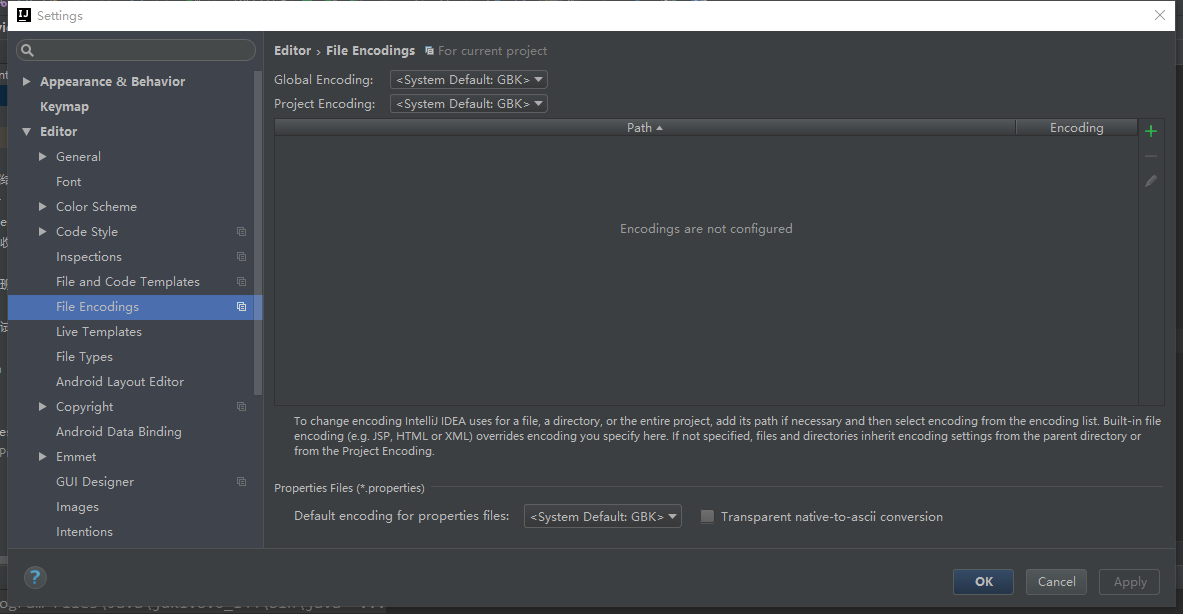
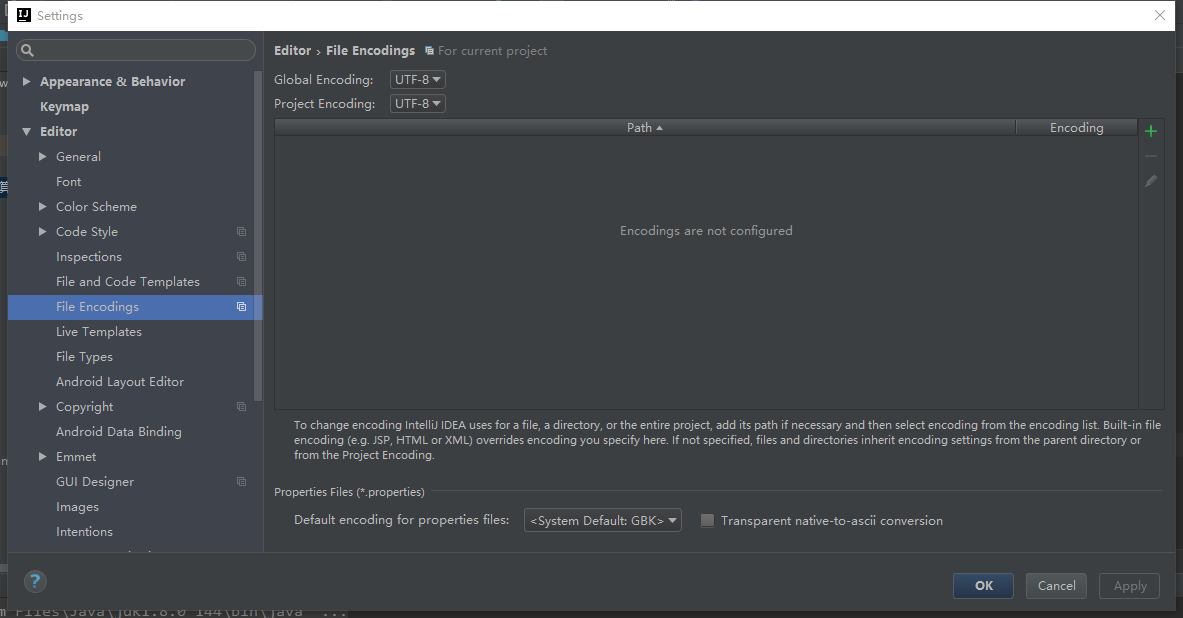
intellij编码问题，按照图片的设置，上一次提交的图片是错的

diff --git a/src/剑指Offer/连续子数组的最大和.java b/src/剑指Offer/连续子数组的最大和.java
@@ -1,0 +1,33 @@
+package 剑指Offer;
+
+/**
+ * Created by 杨杰 on 2018/6/1 10:03.
+ * HZ偶尔会拿些专业问题来忽悠那些非计算机专业的同学。、
+ * 今天测试组开完会后,他又发话了:
+ * 在古老的一维模式识别中,常常需要计算连续子向量的最大和,
+ * 当向量全为正数的时候,问题很好解决。
+ * 但是,如果向量中包含负数,是否应该包含某个负数,并期望旁边的正数会弥补它呢？
+ * 例如:{6,-3,-2,7,-15,1,2,2},连续子向量的最大和为8(从第0个开始,到第3个为止)。
+ * 你会不会被他忽悠住？(子向量的长度至少是1)
+ */
+public class 连续子数组的最大和 {
+    public static void main(String[] args) {
+        int[] arr = {6, -3, -2, 7, -15, 1, 2, 2};
+        System.out.println(solution(arr));
+    }
+
+    private static int solution(int[] arr) {
+        int max = 0;
+        int sum = 0;
+        for (int i : arr) {
+            sum += i;
+            if (sum > max) {
+                max = sum;
+            }
+            if (sum < 0) {
+                sum = 0;
+            }
+        }
+        return max;
+    }
+}
